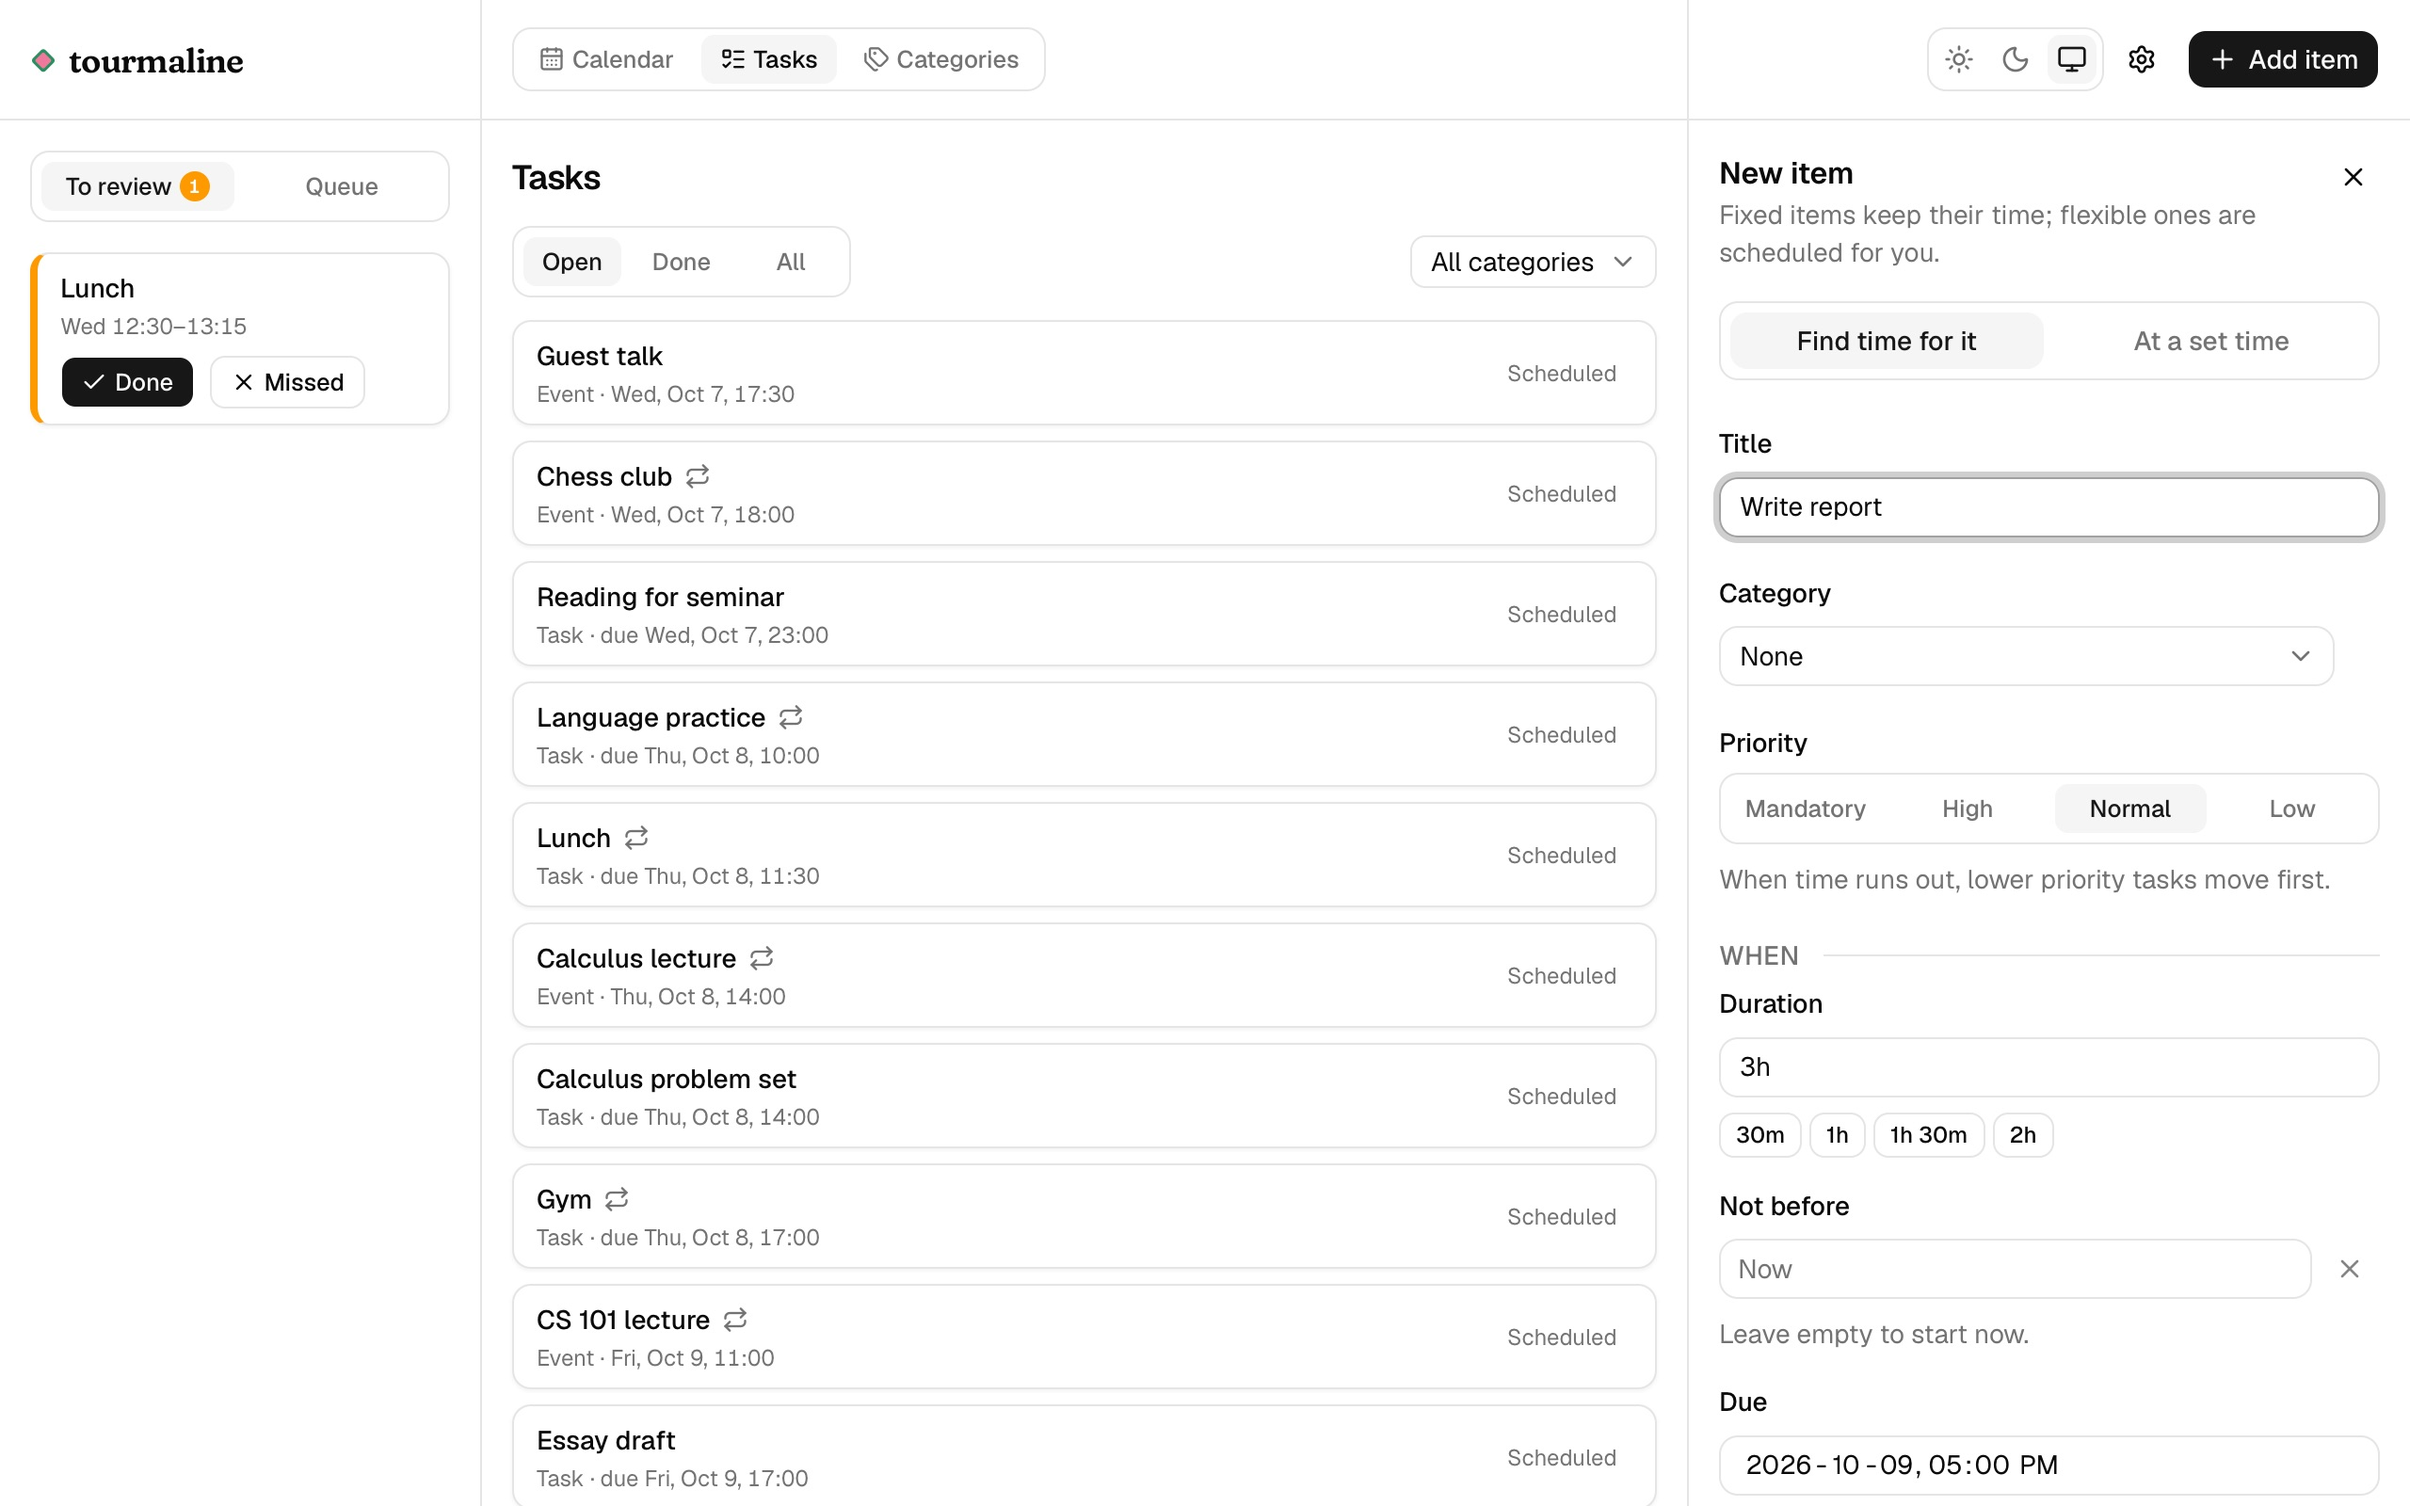
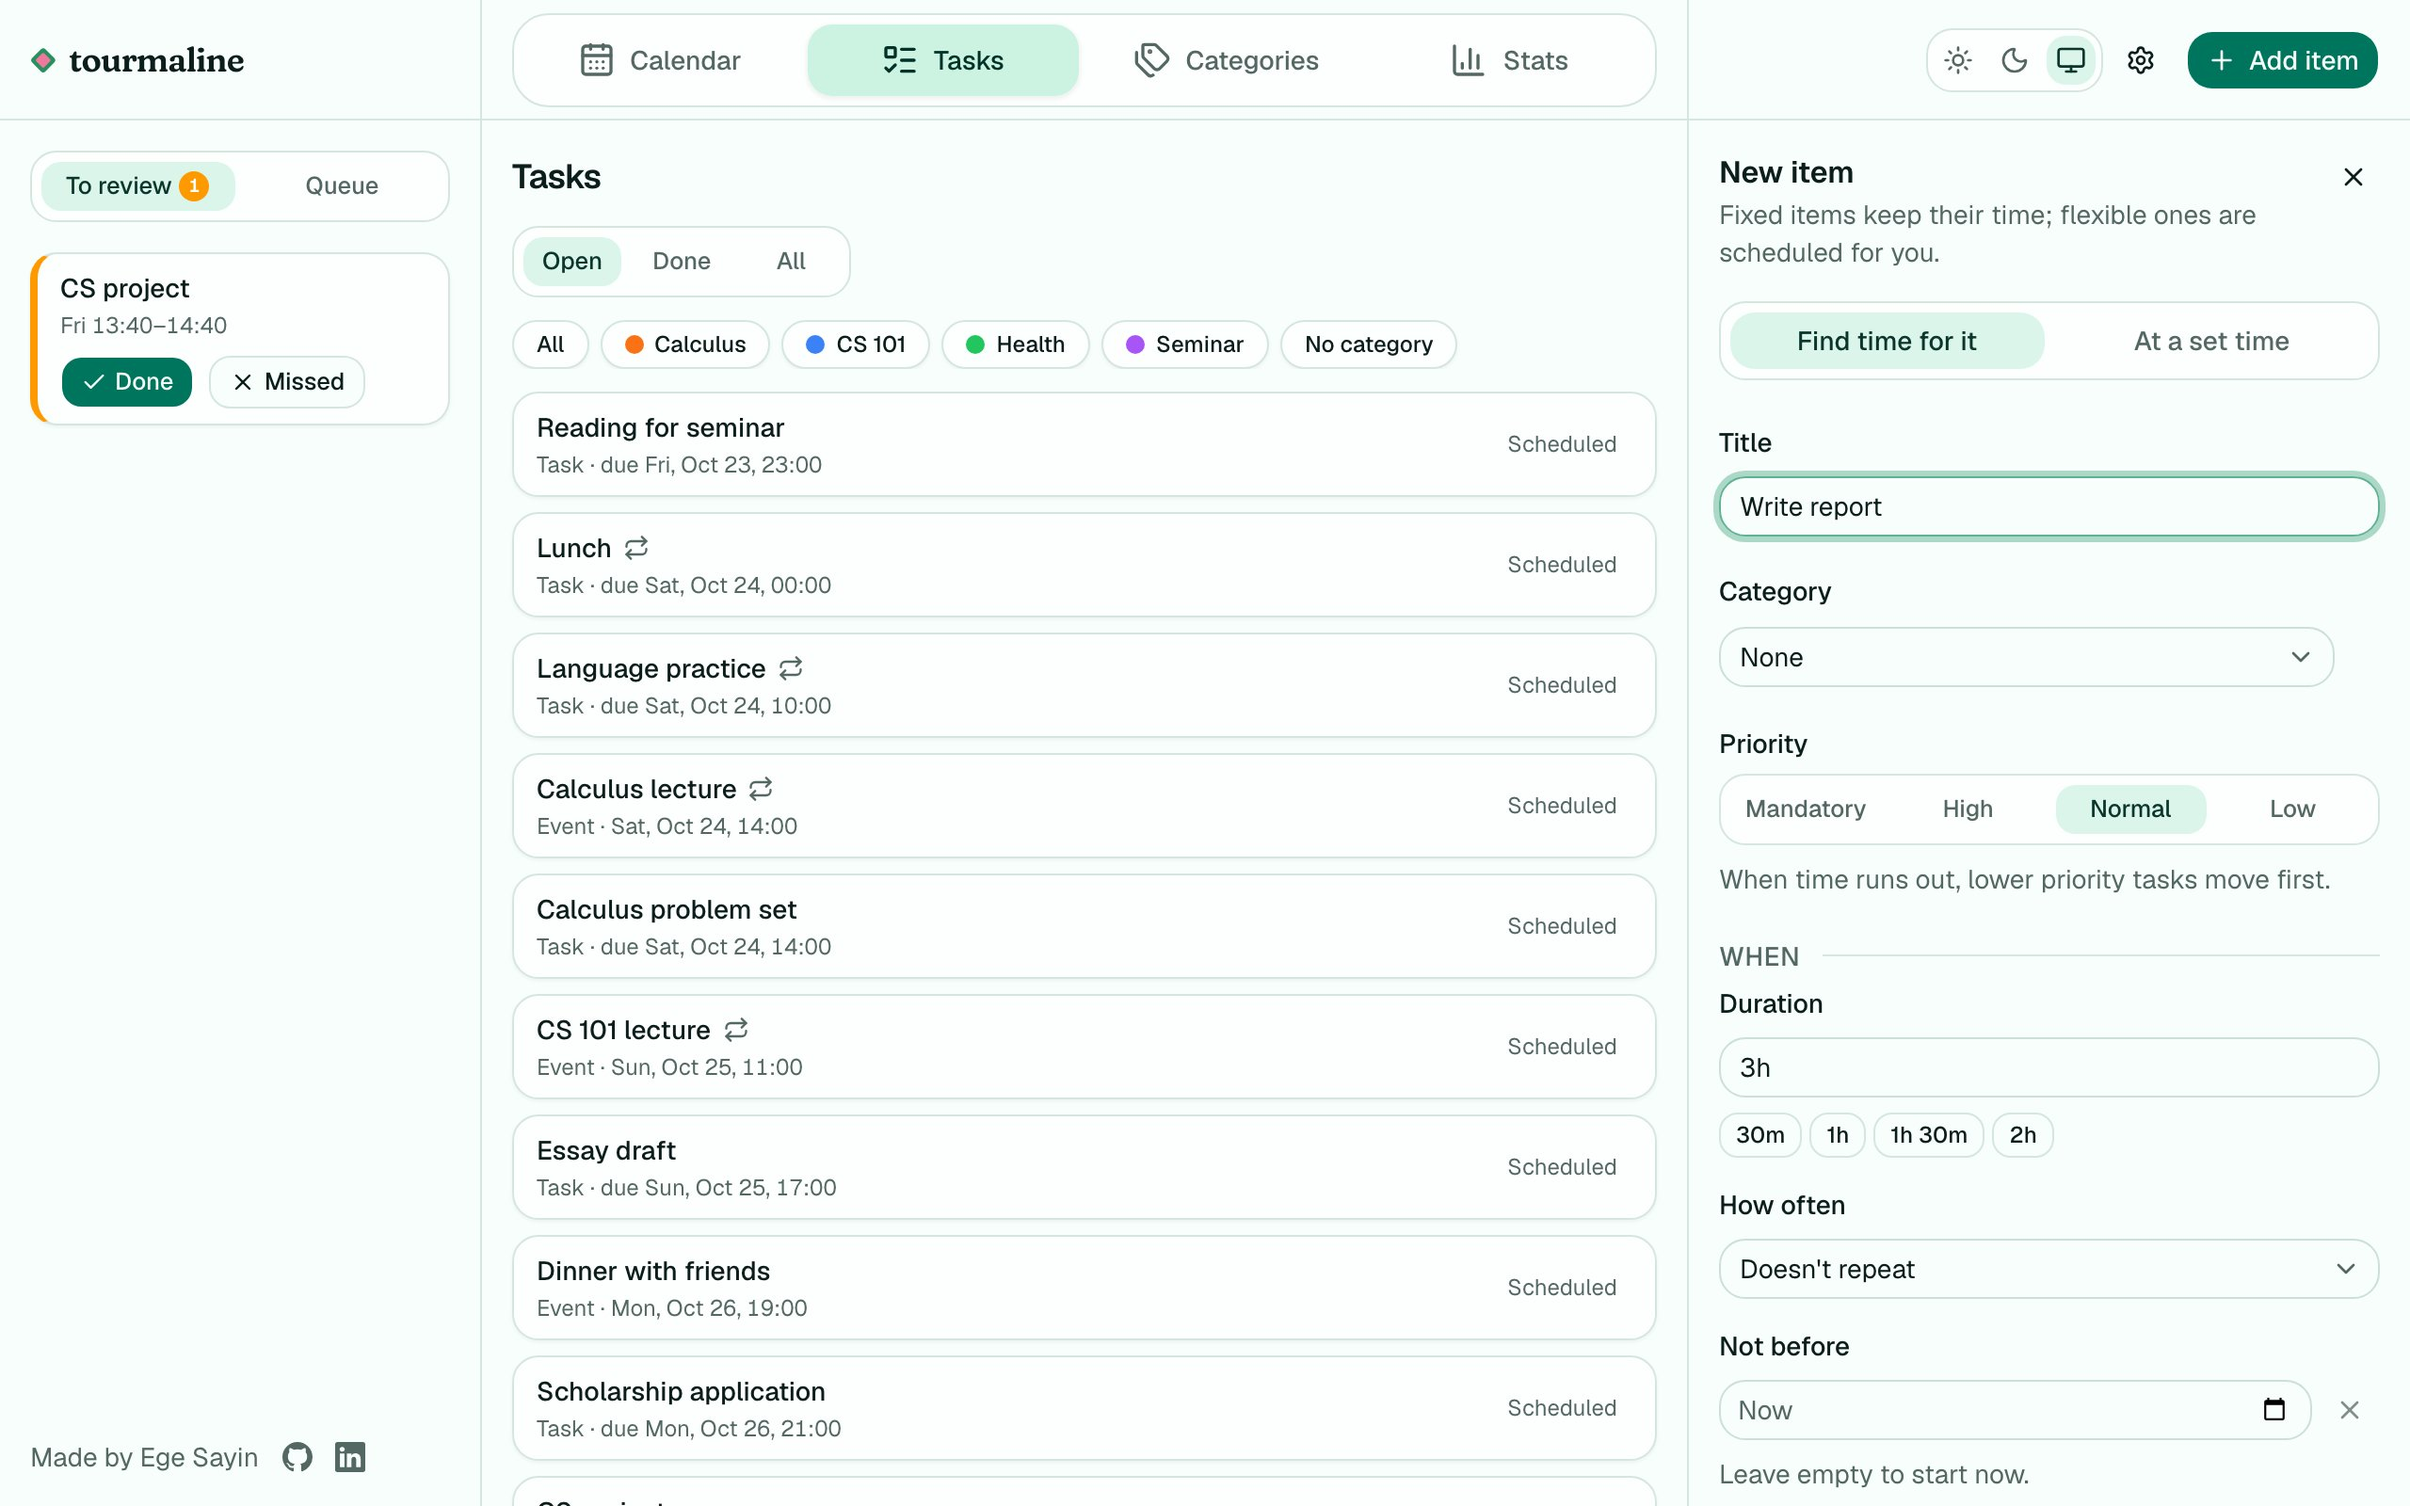
feat(welcome): new screenshots, a stats slide, self-hosting and account links

diff --git a/scripts/welcome-screenshots.ts b/scripts/welcome-screenshots.ts
@@ -1,0 +1,110 @@
+/**
+ * Retakes the welcome page's screenshots (`public/welcome/<id>-{light,dark}.jpg`) from the sample week, each in a
+ * fresh demo workspace. Needs the app running in demo mode at `BASE_URL` (default http://localhost:3200), e.g.
+ * `DEMO_MODE=true NEXT_DEV_INDICATORS=off npx next dev -p 3200`.
+ */
+import { chromium, type Page } from "@playwright/test";
+
+const BASE_URL = process.env.BASE_URL ?? "http://localhost:3200";
+const OUT = "public/welcome";
+
+/** `YYYY-MM-DDTHH:mm` for `time` on the date `days` from today, in this machine's time zone. */
+function localDateTime(days: number, time: string): string {
+  const date = new Date();
+  date.setDate(date.getDate() + days);
+  const pad = (n: number) => String(n).padStart(2, "0");
+  return `${date.getFullYear()}-${pad(date.getMonth() + 1)}-${pad(date.getDate())}T${time}`;
+}
+
+async function openTask(page: Page, title: string) {
+  await page.goto(`${BASE_URL}/tasks`);
+  await page
+    .getByRole("region", { name: "Task list" })
+    .getByRole("link", { name: new RegExp(`^${title}`) })
+    .first()
+    .click();
+  await page.getByRole("complementary", { name: "Edit item" }).waitFor();
+}
+
+async function scrollTo(page: Page, locator: ReturnType<Page["locator"]>, block: ScrollLogicalPosition = "start") {
+  await locator.first().evaluate((element, position) => element.scrollIntoView({ block: position }), block);
+}
+
+/** Each scene sets up the page its slide shows, in a workspace holding the sample week. */
+const SCENES: Record<string, (page: Page) => Promise<void>> = {
+  // The calendar opens at the current time by itself.
+  week: async () => {},
+  add: async (page) => {
+    await page.goto(`${BASE_URL}/tasks?new`);
+    const form = page.getByRole("complementary", { name: "New item" });
+    await form.getByLabel("Title").fill("Write report");
+    await form.getByLabel("Duration", { exact: true }).fill("3h");
+    await form.getByLabel("Due").fill(localDateTime(2, "17:00"));
+    await form.getByLabel("Title").focus();
+  },
+  split: async (page) => {
+    await openTask(page, "CS project");
+    await scrollTo(page, page.getByText("How to schedule"));
+  },
+  repeat: async (page) => {
+    await openTask(page, "Gym");
+    await scrollTo(page, page.getByLabel("How often"), "center");
+  },
+  priority: async (page) => {
+    await openTask(page, "Gym");
+  },
+  queue: async (page) => {
+    await page.goto(`${BASE_URL}/tasks?new`);
+    const form = page.getByRole("complementary", { name: "New item" });
+    await form.getByLabel("Title").fill("Grant application");
+    await form.getByLabel("Duration", { exact: true }).fill("20h");
+    await form.getByLabel("Due").fill(localDateTime(1, "12:00"));
+    await form.getByRole("button", { name: "Add item" }).click();
+    await form.waitFor({ state: "hidden" });
+    await page.goto(BASE_URL);
+    await page.getByRole("radio", { name: /^Queue/ }).click();
+  },
+  missed: async (page) => {
+    await scrollTo(page, page.getByRole("button", { name: /\(missed\)$/ }), "nearest");
+  },
+  categories: async (page) => {
+    const chips = page.getByRole("group", { name: "Shown categories" });
+    for (const name of ["Calculus", "Health", "Seminar", "No category"]) {
+      await chips.getByRole("button", { name }).click();
+    }
+  },
+  stats: async (page) => {
+    await page.goto(`${BASE_URL}/stats`);
+  },
+};
+
+async function main() {
+  const browser = await chromium.launch();
+  try {
+    for (const [id, scene] of Object.entries(SCENES)) {
+      for (const colorScheme of ["light", "dark"] as const) {
+        const context = await browser.newContext({
+          viewport: { width: 1280, height: 800 },
+          deviceScaleFactor: 2,
+          colorScheme,
+        });
+        const page = await context.newPage();
+        await page.goto(`${BASE_URL}/welcome`);
+        await page.getByRole("button", { name: "Try the demo" }).click();
+        await page.waitForURL(`${BASE_URL}/`);
+        await scene(page);
+        await page.waitForTimeout(500); // transitions settle
+        await page.screenshot({ path: `${OUT}/${id}-${colorScheme}.jpg`, type: "jpeg", quality: 85 });
+        await context.close();
+        console.log(`${id}-${colorScheme}`);
+      }
+    }
+  } finally {
+    await browser.close();
+  }
+}
+
+main().catch((error) => {
+  console.error(error);
+  process.exitCode = 1;
+});

diff --git a/src/app/welcome/page.tsx b/src/app/welcome/page.tsx
@@ -3,6 +3,8 @@ import Link from "next/link";
 import { redirect } from "next/navigation";
 import { connection } from "next/server";
 import { SiteFooter } from "@/components/shell/site-footer";
+import { buttonVariants } from "@/components/ui/button";
+import { cn } from "@/lib/utils";
 import { APP_NAME, Wordmark } from "@/components/shell/wordmark";
 import { ScreenshotCarousel } from "@/components/welcome/screenshot-carousel";
 import { StartDemoButton } from "@/components/welcome/start-demo-button";
@@ -42,25 +44,33 @@ export default async function Welcome() {
         <h1 className="font-display text-4xl leading-[1.05] font-medium tracking-tight [font-variation-settings:'SOFT'_50] sm:text-6xl">
           Your life is <em>dynamic</em>, so your schedule should be too.
         </h1>
-        <p className="max-w-2xl text-lg text-muted-foreground">
+        <p className="text-lg text-muted-foreground">
           You say what needs doing, how long it takes and by when. {APP_NAME} works out when you do it, and plans again
           whenever something changes.
         </p>
-        <form action={startDemoAction} className="flex flex-col gap-3 sm:items-start">
-          <StartDemoButton />
-          <p className="max-w-2xl text-sm text-muted-foreground">
+        <form action={startDemoAction} className="flex flex-col gap-3">
+          <div className="flex flex-col gap-2 sm:flex-row sm:justify-center">
+            <StartDemoButton />
+            <Link href="/sign-in" className={cn(buttonVariants({ variant: "outline", size: "lg" }), "sm:px-6")}>
+              Sign in
+            </Link>
+            <Link href="/sign-up" className={cn(buttonVariants({ variant: "outline", size: "lg" }), "sm:px-6")}>
+              Create account
+            </Link>
+          </div>
+          <p className="text-sm text-muted-foreground">
             You get your own copy of a sample week to change as you like. No sign-up, and nothing about you is stored.
             It is deleted after {GUEST_IDLE_DAYS} days without a visit.
           </p>
           <p className="text-sm text-muted-foreground">
-            Have an account?{" "}
-            <Link href="/sign-in" className="font-medium text-foreground underline-offset-4 hover:underline">
-              Sign in
-            </Link>{" "}
-            or{" "}
-            <Link href="/sign-up" className="font-medium text-foreground underline-offset-4 hover:underline">
-              create one
-            </Link>
+            Want your own?{" "}
+            <a
+              href="https://github.com/EgeSayin/tourmaline"
+              className="font-medium text-foreground underline-offset-4 hover:underline"
+            >
+              Self-host it
+            </a>
+            .
           </p>
         </form>
       </section>
@@ -86,7 +96,7 @@ export default async function Welcome() {
         </ol>
       </section>
 
-      <section className="max-w-2xl">
+      <section>
         <h2 className="font-display text-2xl font-medium tracking-tight">Why I built it</h2>
         <p className="mt-4 leading-relaxed text-muted-foreground">
           Growing up, &ldquo;have a planner&rdquo; was the one suggestion I always heard. However, planners never worked

diff --git a/src/components/welcome/screenshot-carousel.tsx b/src/components/welcome/screenshot-carousel.tsx
@@ -60,7 +60,14 @@ const SLIDES = [
     label: "Categories",
     title: "Sort it by colour",
     caption:
-      "Put items into categories, each with its own colour, and filter the calendar to one of them to see just that part of your week.",
+      "Put items into categories, each with its own colour, and hide the ones you don't need right now to see just that part of your week.",
+  },
+  {
+    id: "stats",
+    label: "Stats",
+    title: "See how your weeks went",
+    caption:
+      "Each week shows how much of the task time you planned got done or missed, and where the done time went, by category.",
   },
 ];
 
@@ -87,7 +94,7 @@ export function ScreenshotCarousel() {
   return (
     <section aria-roledescription="carousel" aria-label="What it does" className="flex flex-col gap-4">
       <div className="flex items-end justify-between gap-4">
-        <ol className="hidden flex-wrap gap-x-5 gap-y-2 md:flex">
+        <ol className="hidden flex-wrap gap-x-4 gap-y-2 md:flex">
           {SLIDES.map(({ id, label }, index) => (
             <li key={id}>
               <button
